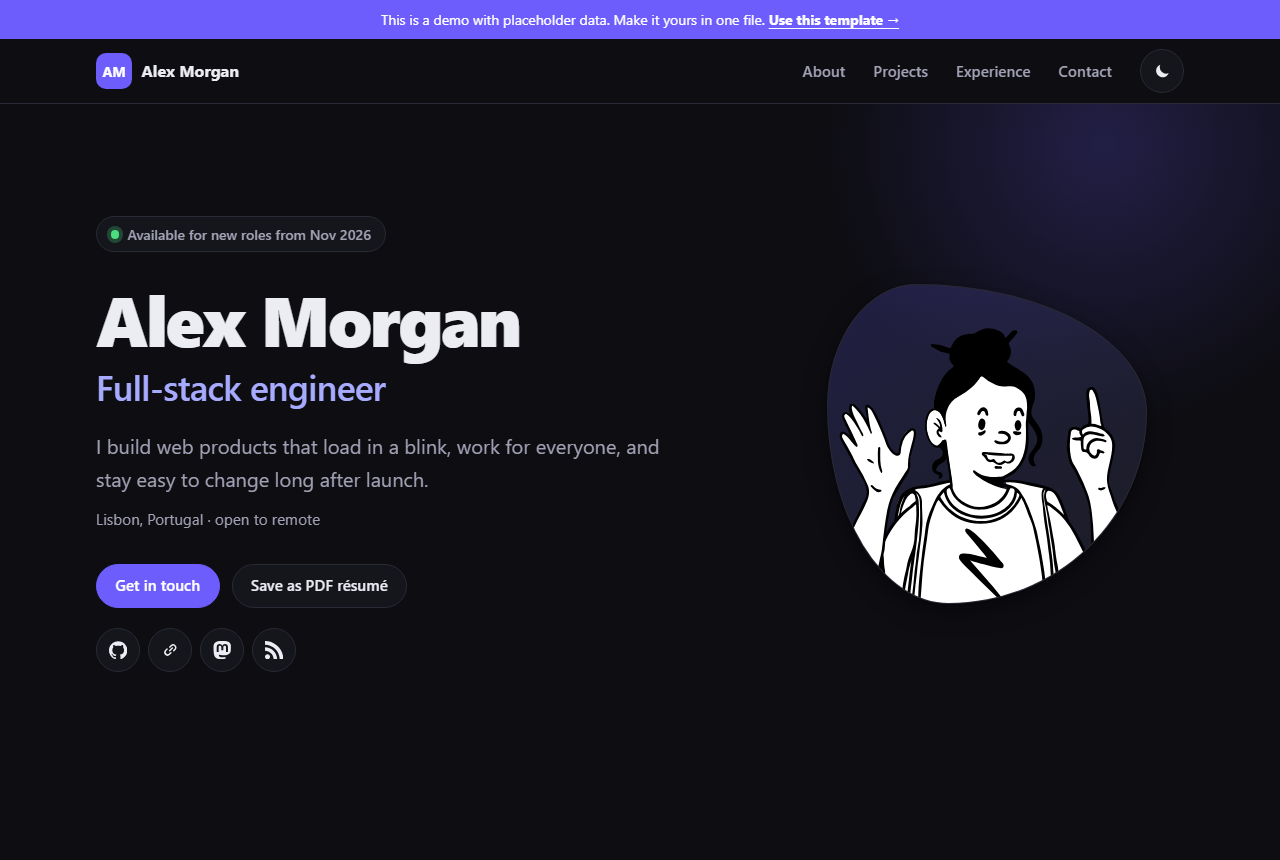
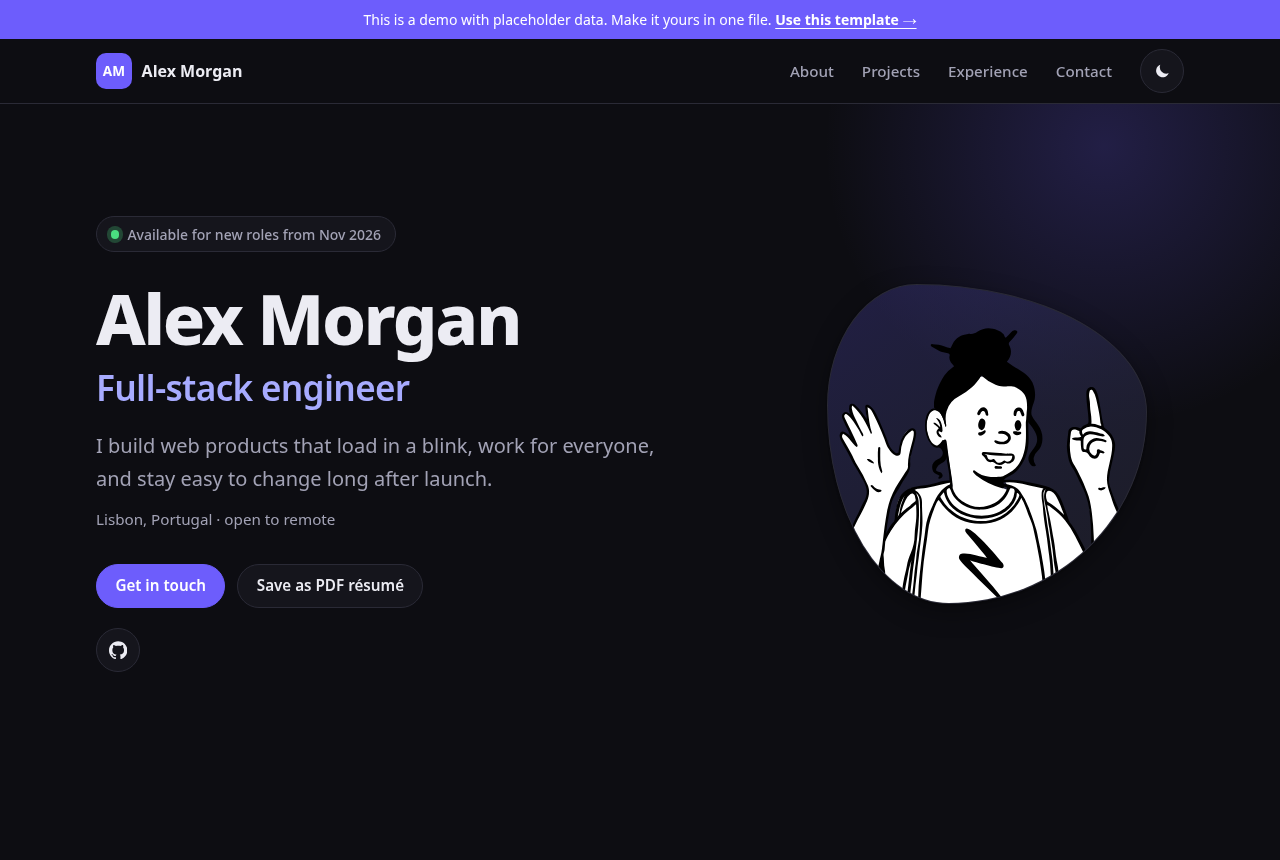
docs: bring README and screenshots up to date
- Lighthouse and axe results, theme following the system setting,
  link-preview image rules, Education-only section
- Testing section: leftover demo data checks, read-only deploy job,
  Lighthouse/axe runs on the production build
- SITE also needed for relative link-preview pictures
- Screenshots retaken from the current demo (one social link)

diff --git a/README.md b/README.md
@@ -22,12 +22,16 @@ Morgan isn't a real person).
   next to it: no email app needed.
 - **Prints as a résumé.** Visitors (and you) can click **Save as PDF résumé** and get a tidy
   two-page résumé: no navigation, no buttons, black on white, even from dark mode.
-- **Fast.** Plain HTML and CSS with a few tiny inline scripts: about 21 KB gzipped in three
-  requests (page, stylesheet, avatar), no web fonts, no trackers.
+- **Fast.** Plain HTML and CSS with a few tiny inline scripts: about 21 KB gzipped for the page,
+  stylesheet and avatar, no web fonts, no trackers. Lighthouse scores 100 in every category on
+  phone and desktop.
 - **Accessible.** Keyboard navigation with a skip link, visible focus, labelled icon buttons,
   WCAG AA contrast in both themes, reduced-motion support, and it works without JavaScript.
-- **Search-friendly.** Page description, link-preview tags and schema.org `Person` data so search
-  engines show your name, role and profiles.
+  No errors in [axe](https://www.deque.com/axe/) in either theme.
+- **Follows the visitor's light/dark setting**, even without JavaScript and when it changes,
+  until they pick a theme with the toggle (remembered for next time).
+- **Search-friendly.** Page description, link-preview tags (with a picture if you add one) and
+  schema.org `Person` data so search engines show your name, role and profiles.
 
 ![The same page in light mode](docs/screenshot-light.png)
 
@@ -64,11 +68,15 @@ npm run dev
 Good to know:
 
 - **Featured projects come first**, then the newest. The filter buttons are built from your tags.
-- **Empty sections disappear** from the page and the menu, and the rest are renumbered.
+- **Empty sections disappear** from the page and the menu, and the rest are renumbered. With
+  education but no jobs yet, the section is called Education.
 - **A photo instead of the avatar:** put `me.jpg` in `public/` and set
   `avatar: { src: "/me.jpg", alt: "Your Name" }`.
 - **Already have a PDF résumé?** Set `resumeUrl` (a full address, or a file in `public/` like
   `"/resume.pdf"`) and the button links to it instead of printing.
+- **A picture for link previews:** put a PNG or JPG (ideally 1200x630) in `public/` and set
+  `site.image: "/preview.png"`, or use a full address. Without it, a photo avatar is used. SVG
+  isn't allowed: social sites ignore it.
 - **Dates** show as `Mar 2023`, the same in every browser and time zone.
 
 ## Commands
@@ -90,16 +98,22 @@ Good to know:
   the field's name.
 - **The real build:** your site and the sample are built with `astro build` and the HTML is checked:
   every `#link` has a target, ids are unique, outside links open safely in a new tab, images have
-  alt text, icon links have names. For the sample also: every project, job and school is on the
-  page, nothing prints `undefined`, and files load from the GitHub Pages path.
+  alt text, icon links have names, and no demo data is left: no placeholder links (a social site's
+  home page, `your-name`) and, once `templateNotice` is removed, no `@example.com` email. For the
+  sample also: every project, job and school is on the page, nothing prints `undefined`, and files
+  load from the GitHub Pages path.
+- **The deploy is locked down.** Installing packages, the checks and the build run with read-only
+  rights; only a separate job, which runs none of the project's code, can publish your site.
 - **In a browser:** both themes, phone and desktop widths, the menu, filters, keyboard focus,
-  print output and color contrast were checked by hand before release.
+  print output and color contrast were checked by hand. Lighthouse 13.5 (100 in every category)
+  and axe 4.13 (no errors, light and dark, down to 320px wide) were run on the production build.
 
 ## Hosting somewhere else
 
 `npm run build` makes a plain static site in `dist/`: upload it to Netlify, Cloudflare Pages,
 Vercel or any web server. Set the `SITE` environment variable (for example
-`https://alexmorgan.dev`) for correct canonical links.
+`https://alexmorgan.dev`) for correct canonical links and link-preview pictures (a full-address
+`site.image` works without it).
 
 ## Credits
 
